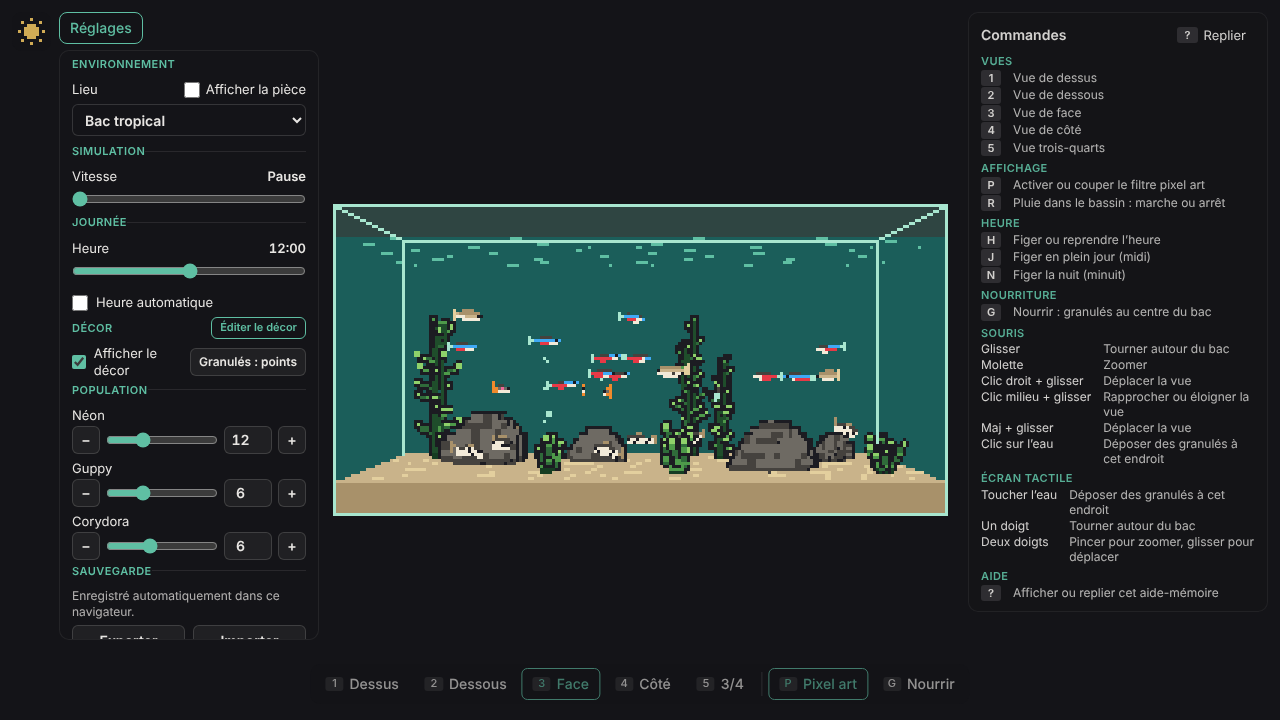
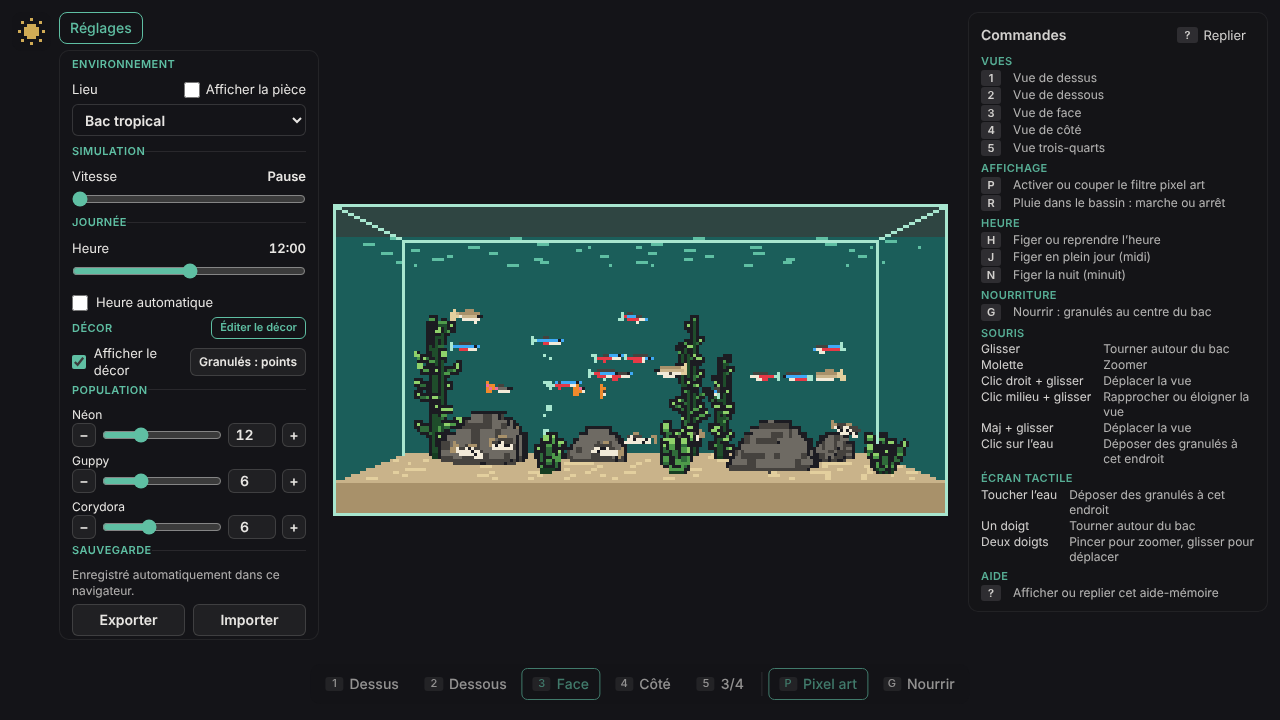
captures(c067): panneau compact sur grand écran

diff --git a/captures/c067/SOURCE-DEV.md b/captures/c067/SOURCE-DEV.md
@@ -1,6 +1,6 @@
 # Captures Dev du cycle 67
 
-- Branche : cycle/c067-catalogue-especes (issue #189), commit 242dd1e
+- Branche : cycle/c067-catalogue-especes (issue #189), commit 7ed704a
 - three-quarter-catalogue.png : `population=neon:4,guppy:6,corydora:14` (contrat de capture, graine 42, 30 s)
 - telephone-catalogue.png : panneau ouvert à 390 × 844, section « Population » (interface, hors contrat)
 - front-panneau.png : panneau ouvert à 1280 × 720 (interface, hors contrat)
